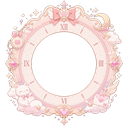
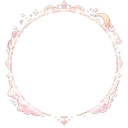
fix: 时钟外框方角裁剪+中心镂空+尺寸优化
- border-radius 0→50% 裁剪方形边角
- clock-frame.png: 中心镂空R=54px+边缘柔化, 表盘指针完整可见
- 素材压缩: 1x 26→13KB, 2x 85→40KB

Changed region(s): [[0.0625, 0.0625, 0.9375, 0.9375]]

diff --git a/style.css b/style.css
@@ -2752,7 +2752,7 @@ body.night-mode .cloud {
   left: 4px;
   width: 128px;
   height: 128px;
-  border-radius: 0;
+  border-radius: 50%;
   z-index: 8999;
   overflow: visible;
   pointer-events: none;
